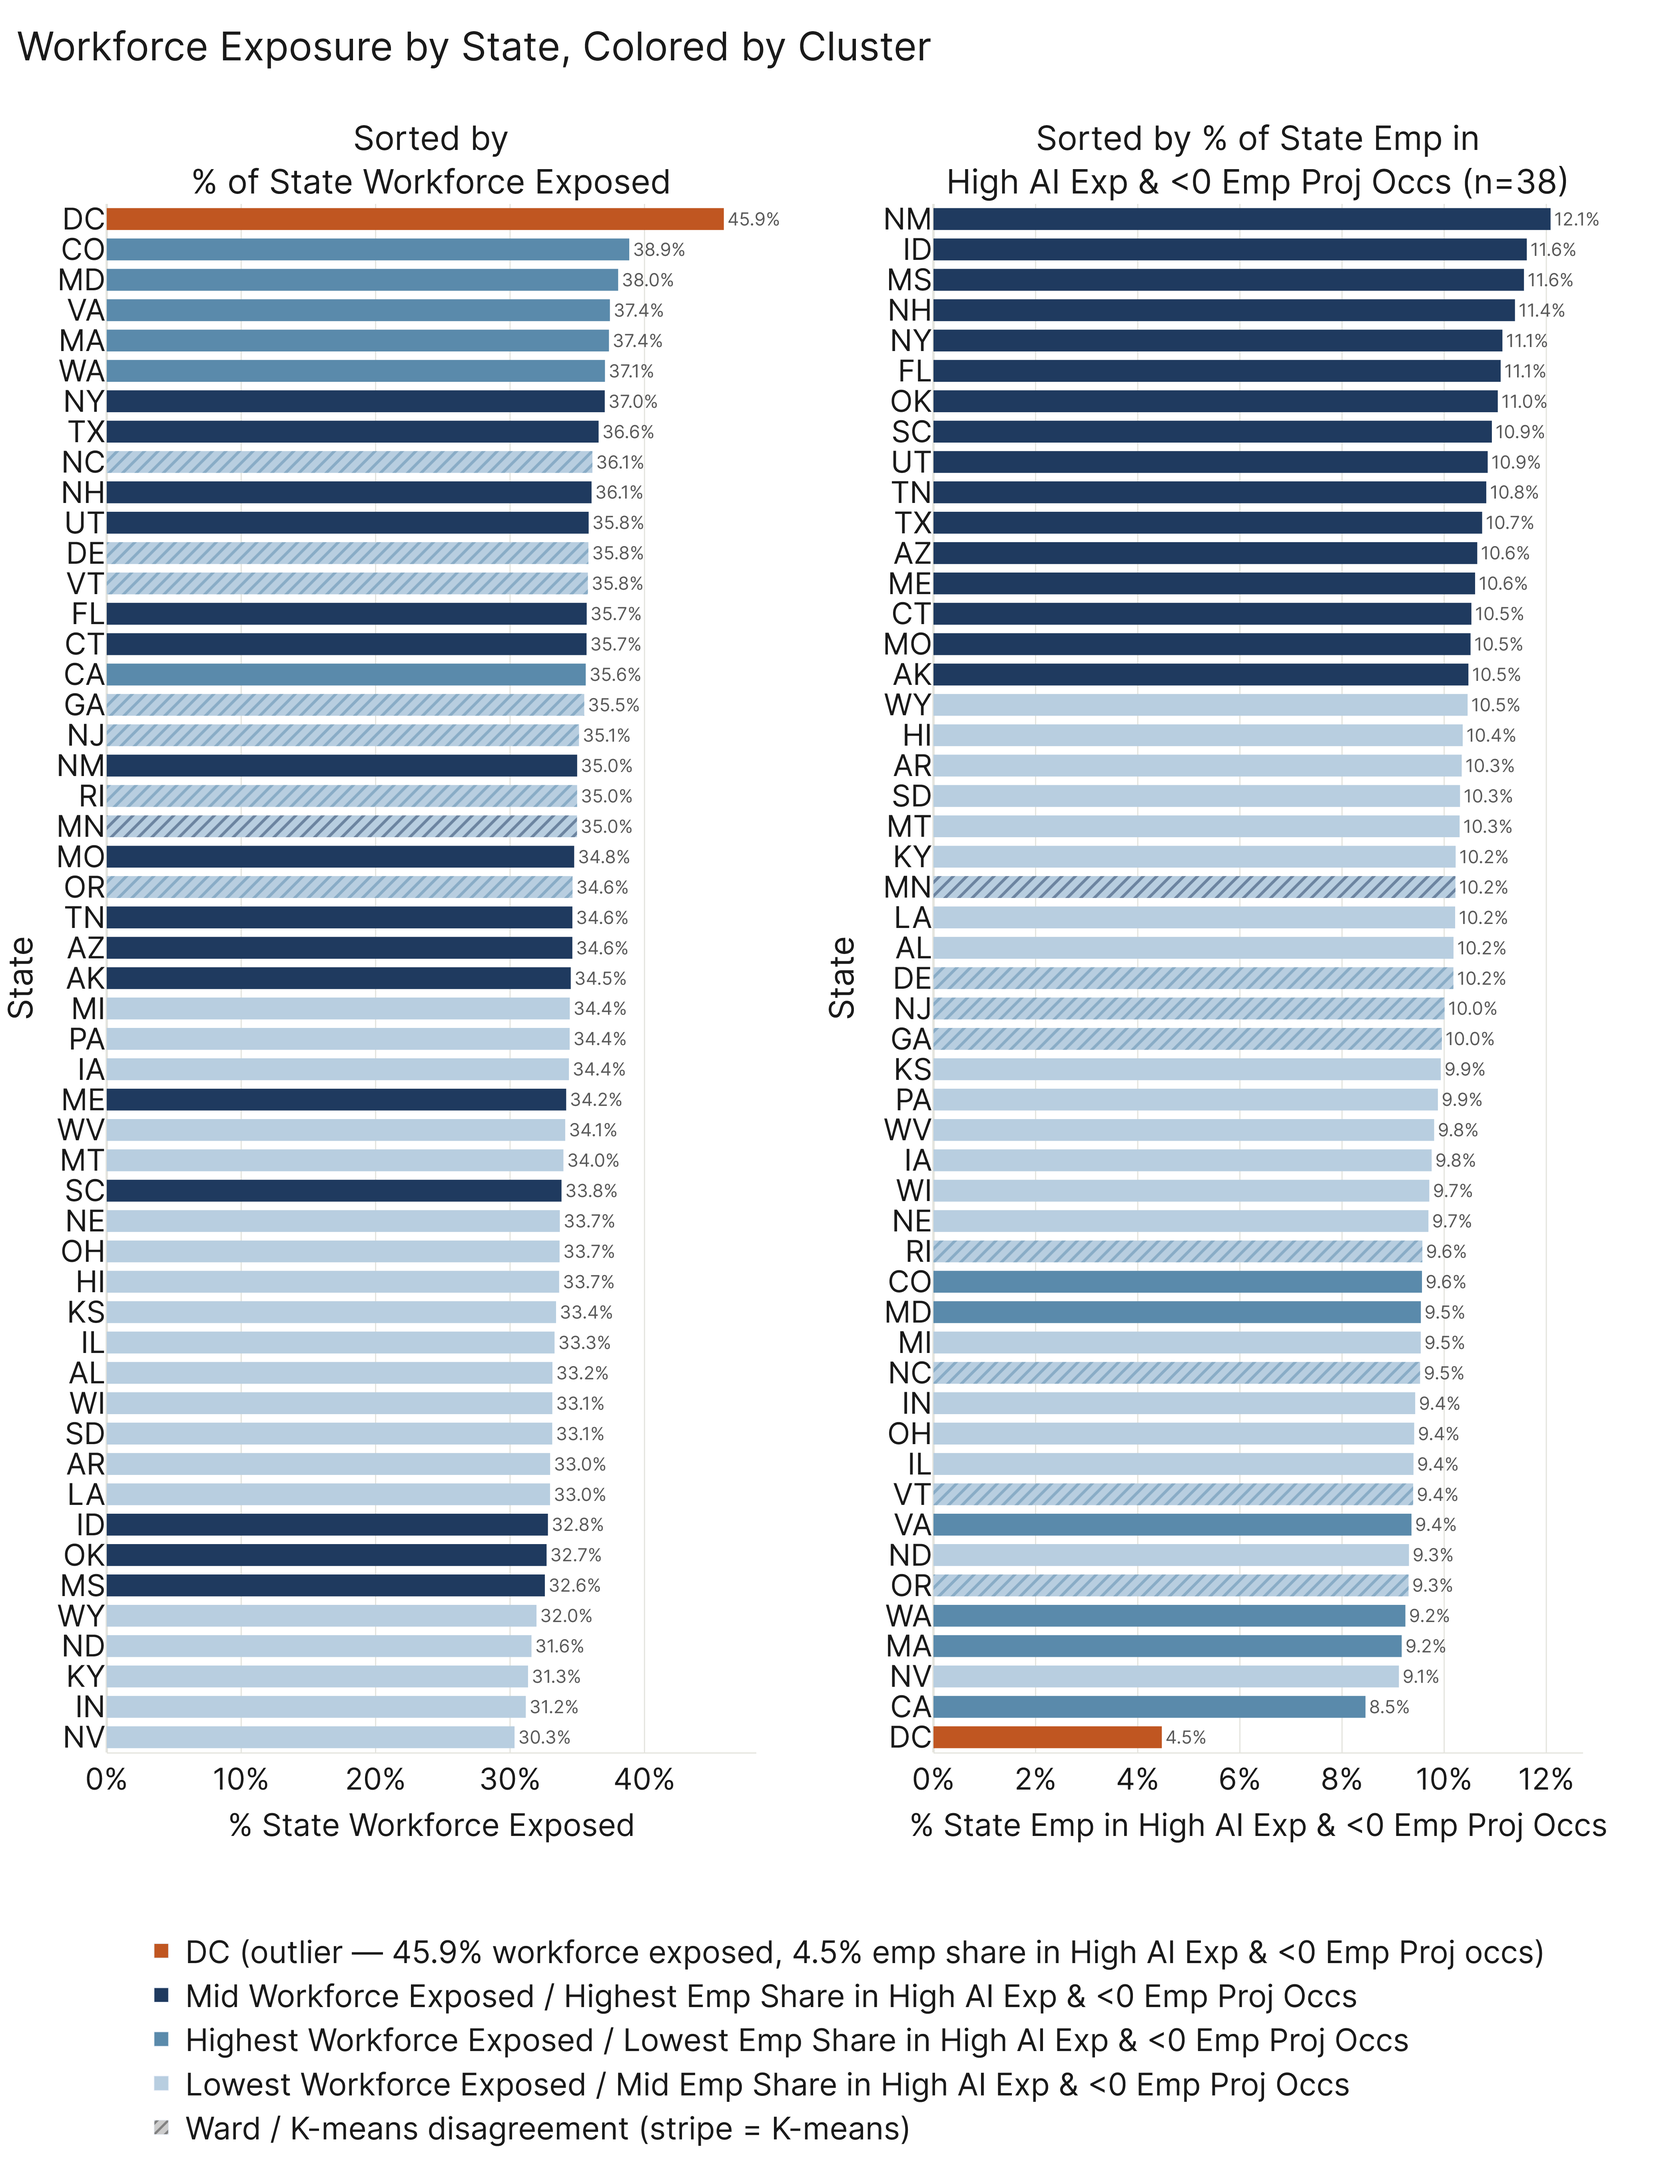
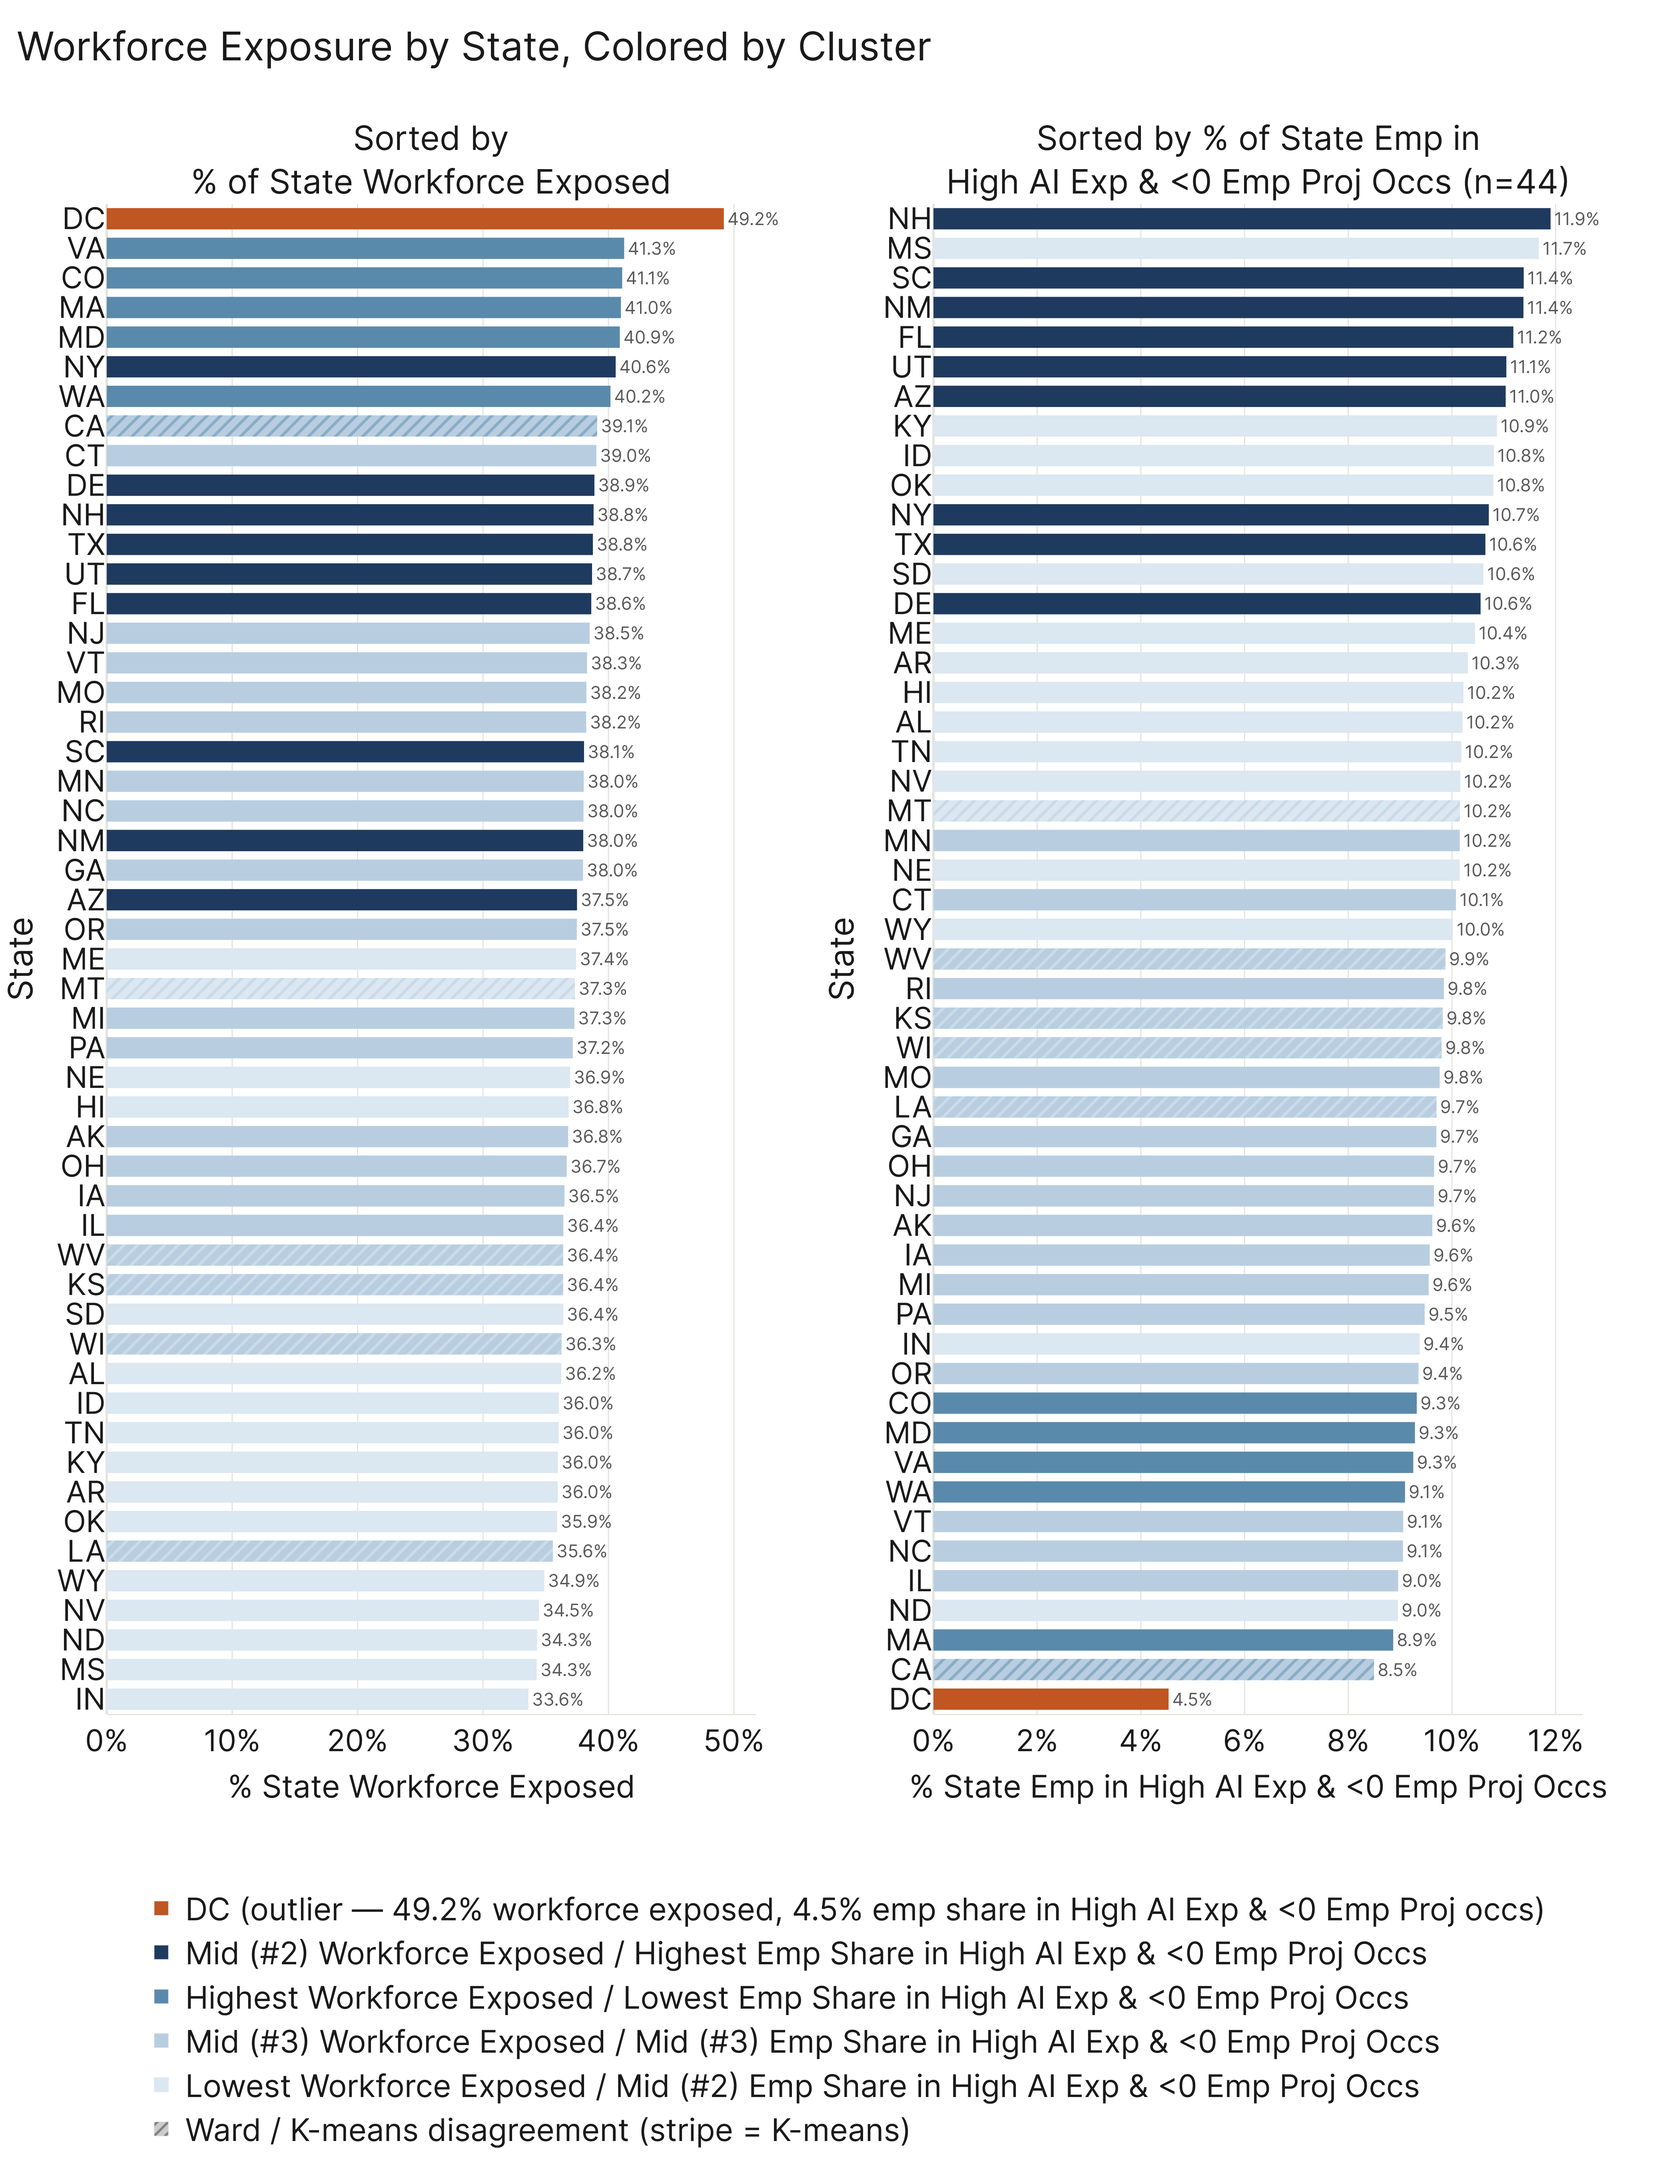
appendix: sync state_clusters_each_ranked label to dynamic n_focused
The right panel's "(n=38)" label was hardcoded and drifted out of sync
with Part 3's risk_score_5f focused set (now n=44). Pulling n via
len(_load_focused_set()) ties it to the same builder Part 3 uses so the
label can't drift again when flag data shifts. Regenerated the figure
against a fresh focused-set computation (cached state_metrics.csv was
stale — bar values disagreed with current focused set by up to ~1pp).
Updated the matching prose row in results_prose_dense.md and the
ANALYSIS_ARCHITECTURE pitfall note (now version-agnostic).

diff --git a/analysis/paper/results/appendix/run.py b/analysis/paper/results/appendix/run.py
@@ -2454,6 +2454,9 @@ def build_state_clusters_each_ranked(results: Path, figures: Path) -> None:
             _load_state_features, CLUSTER_FEATURES, OUTLIER_GEOS,
             _pick_k_from_linkage, K_MIN, K_MAX,
         )
+        from analysis.exploratory.deepdive_state_signal.run import (
+            _load_focused_set,
+        )
     except ImportError as exc:
         print(f"  -> SKIPPED: exploratory/deepdive_state_clusters not available ({exc})")
         return
@@ -2493,7 +2496,10 @@ def build_state_clusters_each_ranked(results: Path, figures: Path) -> None:
         if r["ward_lab"] != r["km_lab"]
     }
 
-    n_focused = 38  # SKA-gated focused set size, matches Part 3 risk_score_5f
+    # SKA-gated focused set size — derived from the same builder Part 3's
+    # risk_score_5f uses, so this label can't drift out of sync if the
+    # underlying flags shift.
+    n_focused = len(_load_focused_set())
 
     save_csv(
         state_df[["geo", "cluster", "cluster_name",

diff --git a/analysis/ANALYSIS_ARCHITECTURE.md b/analysis/ANALYSIS_ARCHITECTURE.md
@@ -460,4 +460,4 @@ The paper also reuses the tech_skills pipeline conceptually from the archived `_
 - **SKA phys-mix score is unweighted**: Use plain `mean(pct_physical)` across occs with imp ≥ 3 for the element — no employment weighting. The point is the structural physicality of the *element's user base*, not the workforce footprint.
 - **Linear trend extrapolation is "if-rate-continues", not a forecast**: 4-snapshot OLS over 11 months is not a defensible forecast at 2-year horizons. The chart subtitles label it as such; never present the projected values as predictions in prose.
 - **`analysis._archive.questions.*` imports**: `audit_risk_score/run.py` and the part_3 risk_score_5f chart pull live constants from `analysis._archive.questions.job_exposure.job_risk_scoring.run`. The DATA_DIR resolution there counts 6 parents to land at `analysis/data` after the move under `_archive/`. If you reorganize `_archive/` again, bump the parent count to match.
-- **Focused set is ~10–13% of state employment, not 38 niche occupations**: the SKA-gated 38-occ "Most At Risk" set used by `risk_score_5f` and `state_exposure_at_risk` includes very-large-employment declining roles (Retail Salespersons 3.8M, Customer Service Reps 2.7M, Office Clerks 2.5M, Secretaries 1.7M, Bookkeepers 1.5M). Together the 38 cover ~20M U.S. workers (~12.9% of total emp). When computing per-state shares, the headline values land in the 4–12% range — that's not a bug, it's the structural shape of the focused set. Do not under-scale the chart's x-axis on this expectation.
+- **Focused set is ~10–13% of state employment, not a handful of niche occupations**: the SKA-gated "Most At Risk" set used by `risk_score_5f` and `state_exposure_at_risk` (currently n≈44, but rebuilt from `_build_focused_set` each run so the exact count can shift with flag data) includes very-large-employment declining roles (Retail Salespersons 3.8M, Customer Service Reps 2.7M, Office Clerks 2.5M, Secretaries 1.7M, Bookkeepers 1.5M). Together they cover ~20M U.S. workers (~12–13% of total emp). When computing per-state shares, the headline values land in the 4–12% range — that's not a bug, it's the structural shape of the focused set. Do not under-scale the chart's x-axis on this expectation. The appendix `state_clusters_each_ranked` chart pulls its n via `len(_load_focused_set())` so its label stays in sync with Part 3's `risk_score_5f`.

diff --git a/analysis/paper/results/results_prose_dense.md b/analysis/paper/results/results_prose_dense.md
@@ -1279,7 +1279,7 @@ Wages Exposed range: $2.48B (Operating Vehicles) to $466.96B (Documenting/Record
 
 Two-panel horizontal bar chart, both panels showing all 51 jurisdictions colored by Ward cluster (same colors as the main Part 3 map). Each panel sorts independently by its own metric (state descending):
 - **Left panel — "Sorted by % of State Workforce Exposed"**: bar = `pct_emp_wtd` per state.
-- **Right panel — "Sorted by % of State Emp in High AI Exp & <0 Emp Proj Occs (n = 38)"**: bar = `focused_share_pct` per state.
+- **Right panel — "Sorted by % of State Emp in High AI Exp & <0 Emp Proj Occs (n = 44)"**: bar = `focused_share_pct` per state.
 
 Both panels show bar-end value labels (rounded to 1 decimal). Disagreement states (Ward vs K-means) get a diagonal-stripe overlay in the K-means cluster's color.
 
